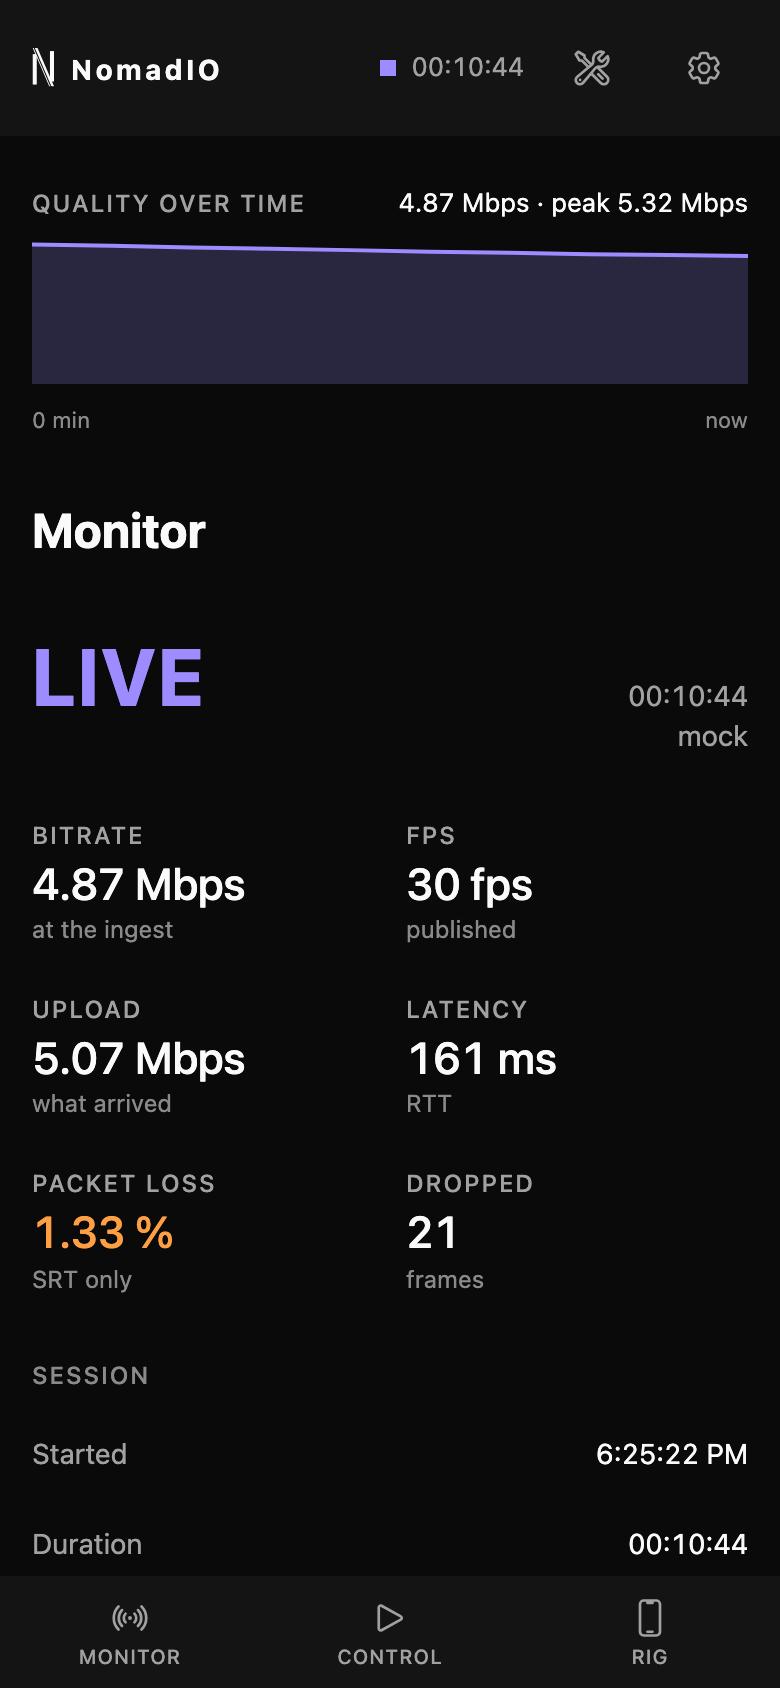
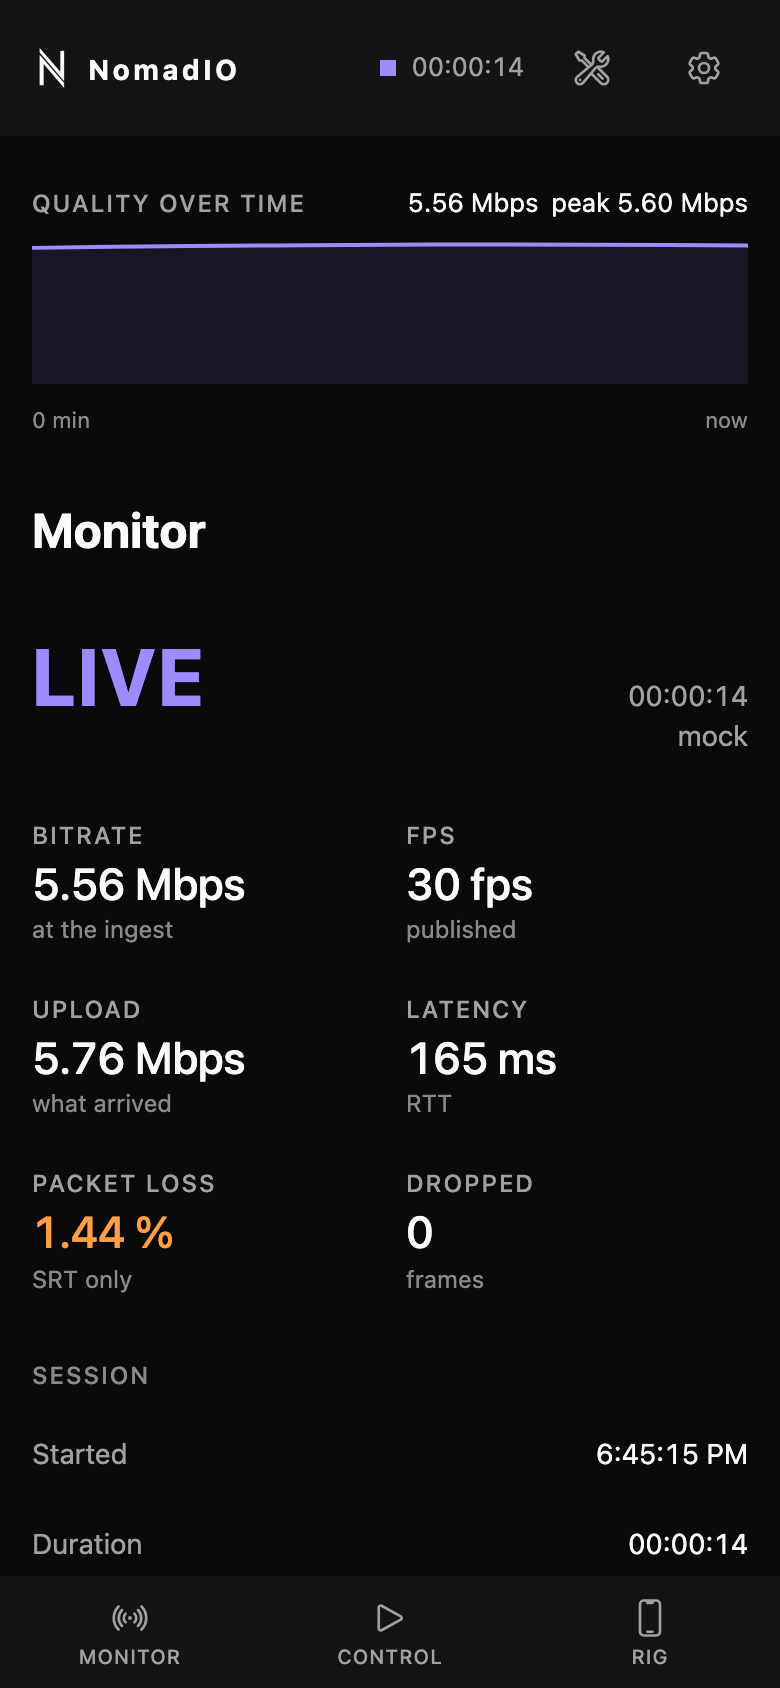
chart: stop shouting when there is nothing to draw
An all-offline buffer filled the whole plot with a red slab and printed
0.00 Mbps as if it were a measurement. The band drops to 14% and the figure
reads 'no stream yet' until a live sample exists.

diff --git a/apps/frontend/src/components/QualityChart.tsx b/apps/frontend/src/components/QualityChart.tsx
@@ -20,6 +20,7 @@ export default function QualityChart({ samples }: { samples: Sample[] }) {
 
   const values = samples.map((s) => s.bitrateKbps ?? 0);
   const peak = Math.max(...values, 1);
+  const everLive = samples.some((s) => s.live);
   const x = (i: number) => (i / (samples.length - 1)) * W;
   const y = (v: number) => H - (v / peak) * (H - 4) - 2;
 
@@ -41,15 +42,21 @@ export default function QualityChart({ samples }: { samples: Sample[] }) {
       <div className="chart-head">
         <span className="label">Quality over time</span>
         <span className="chart-now mono">
-          {mbps(latest.bitrateKbps)}&ensp;peak {mbps(peak)}
+          {everLive ? (
+            <>
+              {mbps(latest.bitrateKbps)}&ensp;peak {mbps(peak)}
+            </>
+          ) : (
+            'no stream yet'
+          )}
         </span>
       </div>
       <svg viewBox={`0 0 ${W} ${H}`} preserveAspectRatio="none" className="chart-svg" role="img" aria-label="Bitrate over time">
         {bands.map(([a, b]) => (
           <rect key={a} x={x(a)} y={0} width={Math.max(x(b) - x(a), 2)} height={H} className="chart-band" />
         ))}
-        <path d={area} className="chart-area" />
-        <path d={line} className="chart-line" vectorEffect="non-scaling-stroke" />
+        {everLive ? <path d={area} className="chart-area" /> : null}
+        {everLive ? <path d={line} className="chart-line" vectorEffect="non-scaling-stroke" /> : null}
       </svg>
       <div className="chart-foot">
         <span>{Math.round((samples.length * 1) / 60)} min</span>

diff --git a/apps/frontend/src/globals.css b/apps/frontend/src/globals.css
@@ -227,7 +227,7 @@ select, input[type='text'], input[type='number'] {
 .chart-empty { height: 64px; }
 .chart-area { fill: color-mix(in oklab, var(--accent) 10%, transparent); }
 .chart-line { fill: none; stroke: var(--accent); stroke-width: 2; stroke-linejoin: round; }
-.chart-band { fill: color-mix(in oklab, var(--crit) 28%, transparent); }
+.chart-band { fill: color-mix(in oklab, var(--crit) 14%, transparent); }
 .chart-foot { display: flex; justify-content: space-between; font-size: 11px; color: var(--idle); margin-top: 2px; }
 
 /* ---- scales up into a portal on big screens ---- */
